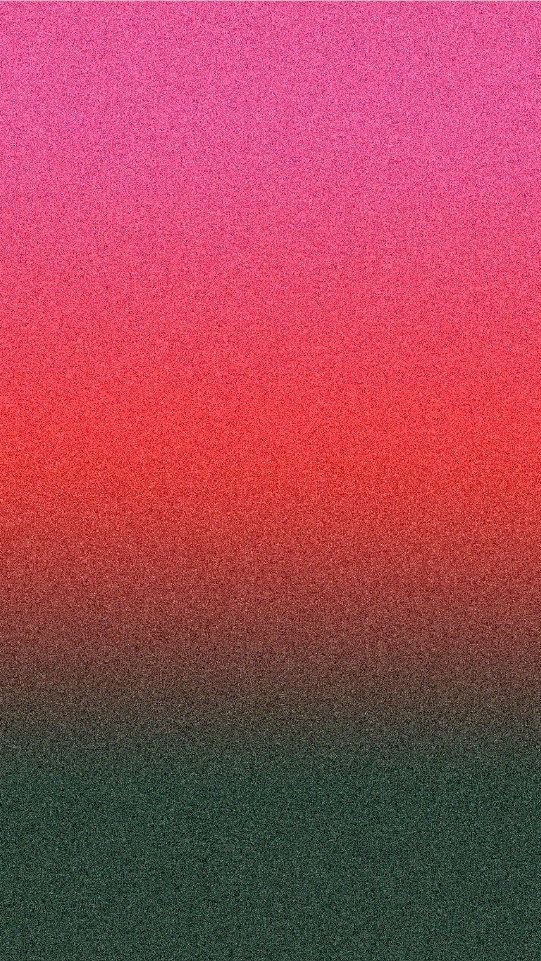
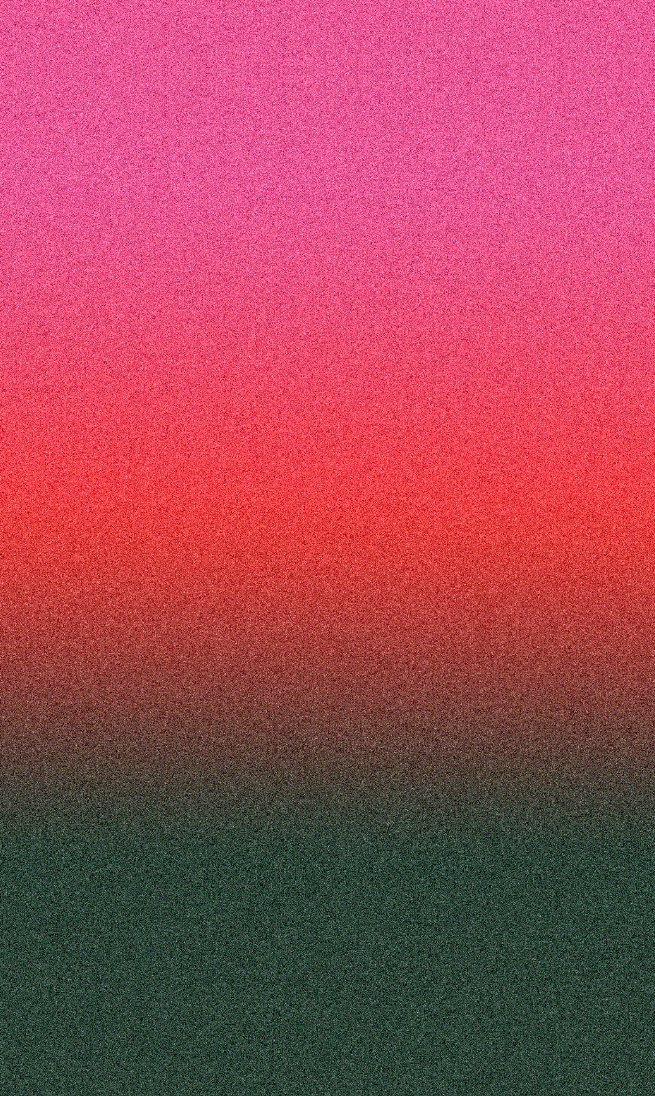
Background
- Better background?

diff --git a/css/base.css b/css/base.css
@@ -7,3 +7,26 @@
 #bg {
     pointer-events: none;
 }
+
+html,
+body {
+    height: 100%;
+    min-height: 100dvh;
+    margin: 0;
+}
+
+html {
+    /* Fondo global de la app */
+    background-image: url("assets/images/start/Background_00.webp");
+    background-position: center center;
+    background-repeat: no-repeat;
+    background-size: cover;
+    background-color: #000; /* fallback */
+}
+
+body {
+    display: flex;
+    justify-content: center;
+    align-items: center;
+    background: transparent; /* body transparente para centrar stage */
+}

diff --git a/js/screens/start.js b/js/screens/start.js
@@ -20,6 +20,9 @@ startBtn.addEventListener("click", () => {
 export function goToScreen2() {
   // Cambiar fondo y alternar elementos
   bg.src = "assets/images/start/Background_01.webp";
+
+  document.documentElement.style.backgroundImage = 'url("assets/images/start/Background_01.webp")';
+
   infoText.classList.remove("hidden");  // StartingText_00
   logo.classList.remove("hidden");      // KlarLogo_Base
   titleImg.classList.add("hidden");     // Oculta StartingTitle_00

diff --git a/js/screens/q1.js b/js/screens/q1.js
@@ -12,6 +12,9 @@ export function goToQuestion1() {
   // Asegura el fondo de pantalla 2 (no pasa nada si ya está)
   bg.src = "assets/images/start/Background_01.webp";
 
+  document.documentElement.style.backgroundImage = 'url("assets/images/start/Background_01.webp")';
+
+
   // Oculta intro y botón
   hide(titleImg, infoText, startBtn);
 

diff --git a/js/app.js b/js/app.js
@@ -1,5 +1,8 @@
 import { Audio } from "./core/audio.js";
 
+// Forzar fondo inicial al cargar la app
+document.documentElement.style.backgroundImage = 'url("assets/images/start/Background_00.webp")';
+
 async function initApp() {
     // 1⃣ Preload y wire buttons
     await Audio.preload();

diff --git a/js/screens/standby.js b/js/screens/standby.js
@@ -10,6 +10,9 @@ export function goToStandby() {
 
   bg.src = "assets/images/start/Background_00.webp";
 
+  document.documentElement.style.backgroundImage = 'url("assets/images/start/Background_00.webp")';
+
+
   // Muestra Standby
   show(standby);
 
